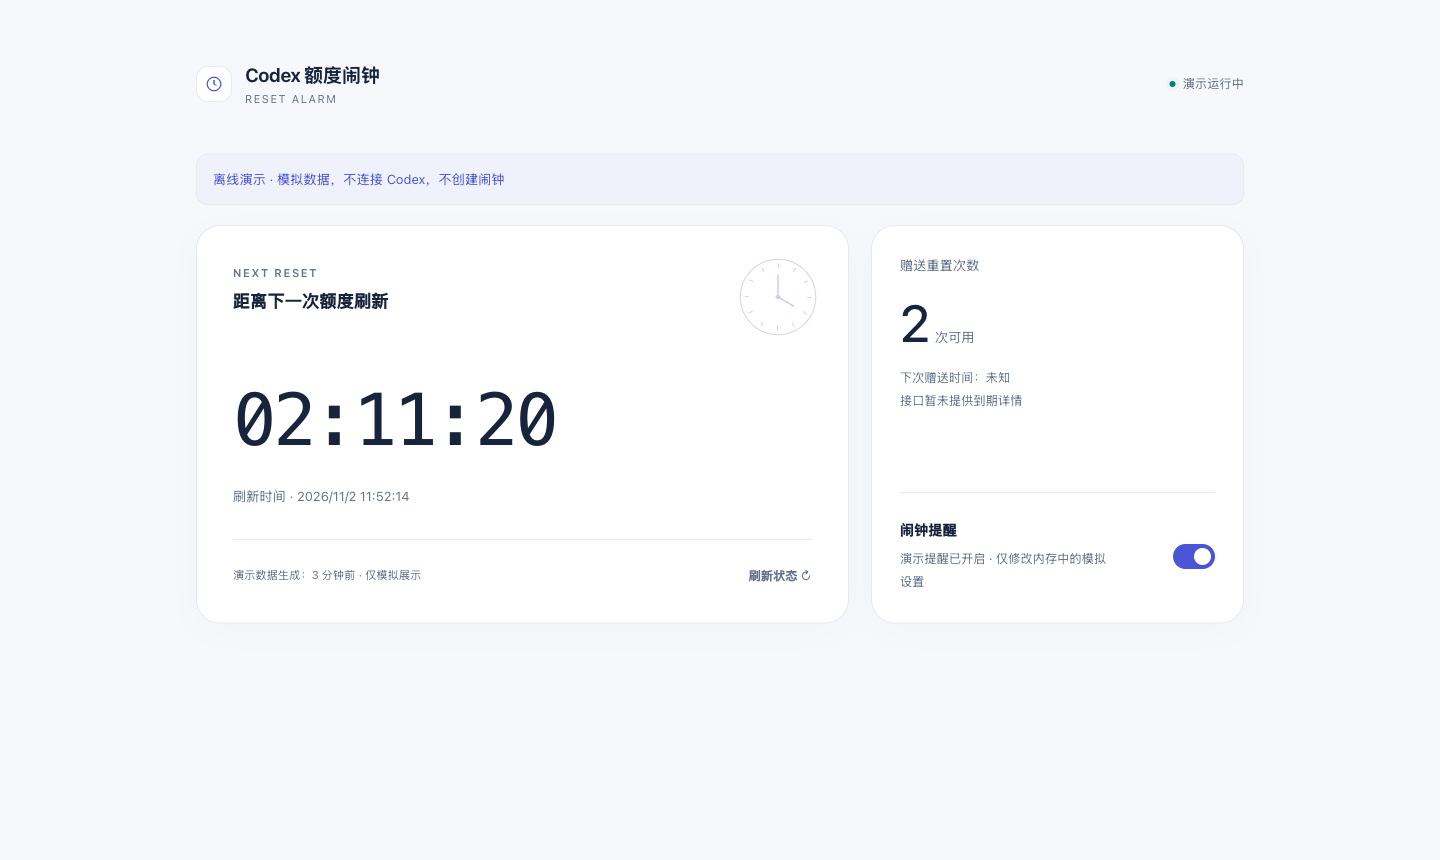
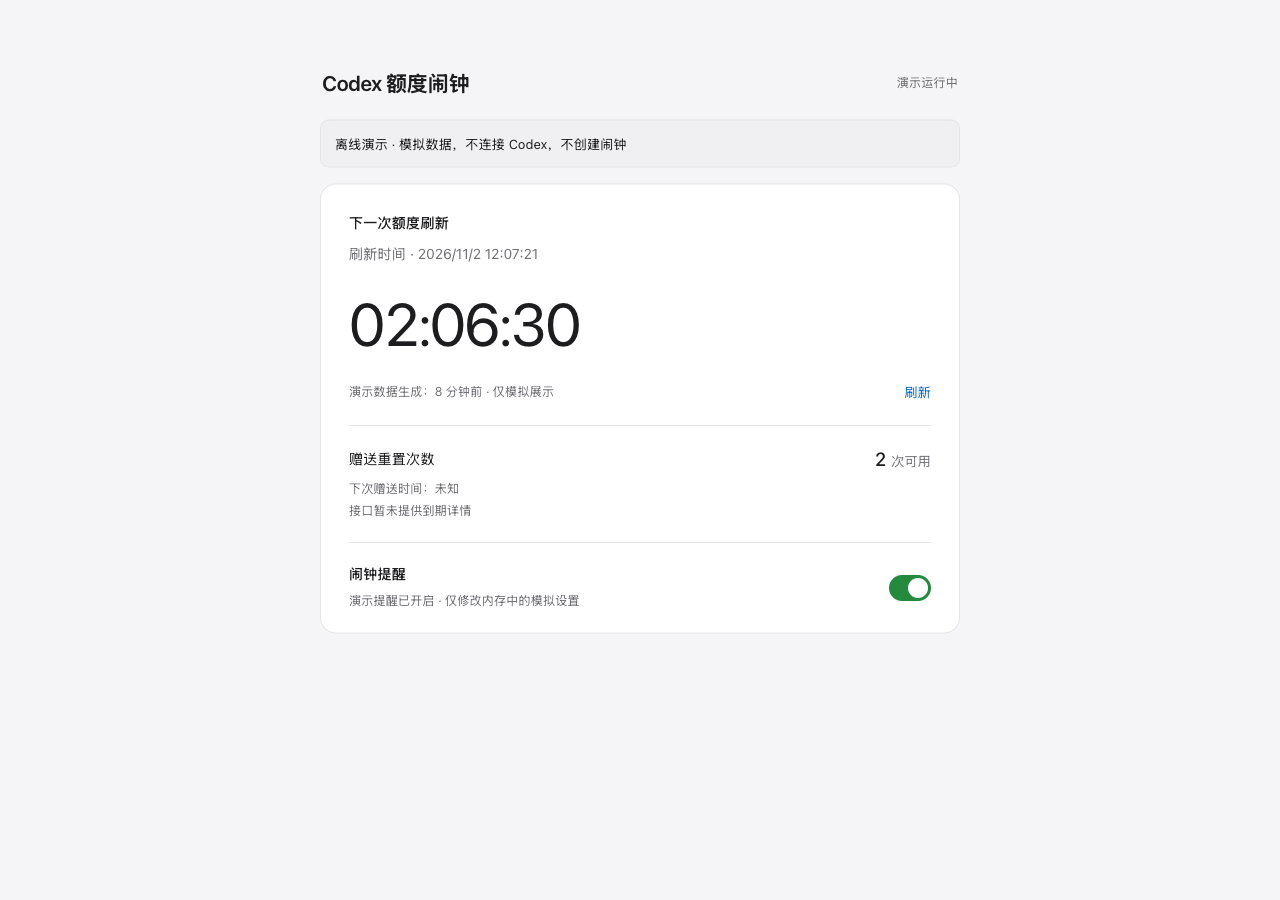
design: adopt a native utility layout guided by Impeccable

diff --git a/web/index.html b/web/index.html
@@ -6,107 +6,92 @@
 <title>Codex 额度闹钟</title>
 <link rel="icon" href="data:,">
 <style>
-  :root { color-scheme:light dark; --bg:#f6f8fb; --surface:#fff; --ink:#17243b; --muted:#65748a; --line:#e5eaf1; --accent:#4b56d6; --green:#087f72; --soft:#f0f2fb; --shadow:0 8px 32px #263b5b06; }
+  :root { color-scheme:light dark; --bg:#f5f5f7; --surface:#fff; --ink:#1d1d1f; --muted:#6e6e73; --line:#e5e5e7; --blue:#0066cc; --green:#248a3d; --control:#f0f0f2; --error:#b42318; --error-bg:#fff0ee; }
   * { box-sizing:border-box; }
-  body { margin:0; background:var(--bg); color:var(--ink); font-family:-apple-system,BlinkMacSystemFont,"PingFang SC",sans-serif; -webkit-font-smoothing:antialiased; }
-  main { max-width:1120px; margin:0 auto; padding:62px 36px 40px; }
-  header { display:flex; align-items:center; justify-content:space-between; gap:20px; margin-bottom:48px; }
-  .identity { display:flex; align-items:center; gap:13px; }
-  .brand-mark { width:36px; height:36px; border:1px solid var(--line); border-radius:12px; background:var(--surface); display:grid; place-items:center; color:var(--accent); }
-  h1 { font-size:19px; font-weight:650; letter-spacing:-.4px; margin:0; }
-  .brand-sub { color:var(--muted); font-size:11px; letter-spacing:1.5px; margin-top:4px; }
-  .header-actions { display:flex; align-items:center; gap:16px; }
-  .status { display:flex; align-items:center; gap:7px; color:var(--muted); font-size:12px; }
-  .status::before { content:""; width:6px; height:6px; border-radius:50%; background:#9ba8ba; }
-  .status.online::before { background:var(--green); box-shadow:0 0 0 4px #0a99800c; }
-  .layout { display:grid; grid-template-columns:minmax(0,1.75fr) minmax(270px,1fr); gap:22px; align-items:stretch; }
-  .clock,.side { min-width:0; background:var(--surface); border:1px solid var(--line); border-radius:24px; box-shadow:var(--shadow); }
-  .clock { position:relative; padding:40px 36px 32px; overflow:hidden; display:flex; flex-direction:column; }
-  .eyebrow { color:var(--muted); font-size:11px; letter-spacing:1.6px; font-weight:600; }
-  .label { font-size:17px; font-weight:550; margin-top:10px; }
-  .clock-art { position:absolute; right:24px; top:25px; width:92px; height:92px; color:var(--accent); opacity:.28; }
-  .count { font-family:ui-monospace,"SFMono-Regular",Menlo,monospace; font-size:clamp(40px,5.8vw,72px); line-height:1.2; font-weight:400; letter-spacing:-3px; font-variant-numeric:tabular-nums; margin:64px 0 22px; }
-  #reset { font-size:13px; color:var(--muted); line-height:1.6; }
-  .clock-footer { border-top:1px solid var(--line); margin-top:33px; padding-top:20px; display:flex; flex-wrap:wrap; gap:10px; justify-content:space-between; align-items:center; }
-  #freshness { margin:0; color:var(--muted); font-size:11px; line-height:1.8; }
-  .paused-note { display:none; color:var(--muted); font-size:12px; margin-top:12px; }
-  .clock.paused .paused-note { display:block; }
-  .clock.paused .count { color:var(--muted); }
-  .side { padding:30px 28px; display:flex; flex-direction:column; }
-  .section-label { color:var(--muted); font-size:13px; }
-  .credit { margin:22px 0 18px; font-size:52px; letter-spacing:-2px; font-weight:450; line-height:1; }
-  .credit small { font-size:13px; letter-spacing:0; font-weight:400; color:var(--muted); margin-left:7px; }
-  .muted { color:var(--muted); font-size:12px; line-height:1.9; }
-  .credit-meta { margin-bottom:30px; }
-  .switchline { border-top:1px solid var(--line); padding-top:27px; margin-top:auto; display:flex; justify-content:space-between; align-items:center; gap:18px; }
-  #toggleLabel { font-size:14px; font-weight:550; }
-  #toggleHint { margin-top:7px; max-width:210px; }
-  button { font-family:inherit; border:1px solid transparent; border-radius:10px; padding:10px 14px; background:var(--accent); color:#fff; font-size:12px; font-weight:550; cursor:pointer; max-width:100%; }
-  button.secondary { background:var(--soft); color:var(--ink); }
-  button.text-button { background:transparent; color:var(--muted); padding:6px 0; }
+  body { margin:0; background:var(--bg); color:var(--ink); font-family:-apple-system,BlinkMacSystemFont,"Helvetica Neue","PingFang SC",sans-serif; -webkit-font-smoothing:antialiased; }
+  main { max-width:688px; margin:68px auto 40px; padding:0 24px; }
+  header { display:flex; justify-content:space-between; align-items:center; gap:16px; margin:0 2px 22px; }
+  h1 { margin:0; font-size:21px; font-weight:600; letter-spacing:-.02em; }
+  .status { font-size:12px; color:var(--muted); line-height:1.6; text-align:right; }
+  .panel { background:var(--surface); border:1px solid var(--line); border-radius:16px; padding:0 28px; }
+  .clock { padding:28px 0 20px; }
+  .label { font-size:14px; font-weight:500; }
+  #reset { font-size:14px; margin-top:9px; color:var(--muted); line-height:1.7; }
+  .count { font-size:60px; font-weight:400; font-variant-numeric:tabular-nums; letter-spacing:-.03em; line-height:1.15; margin:23px 0 21px; }
+  .clock-footer { display:flex; align-items:center; justify-content:space-between; gap:12px; }
+  #freshness { margin:0; font-size:12px; line-height:1.6; color:var(--muted); }
+  .settings-row { border-top:1px solid var(--line); padding:21px 0; }
+  .row-title { display:flex; align-items:center; justify-content:space-between; gap:18px; font-size:14px; }
+  .credit { font-size:19px; font-weight:500; font-variant-numeric:tabular-nums; }
+  .credit small { font-size:13px; font-weight:400; margin-left:5px; color:var(--muted); }
+  .muted { font-size:12px; color:var(--muted); line-height:1.8; }
+  .credit-meta { margin-top:8px; }
+  #toggleHint { margin-top:6px; }
+  .switchline { display:flex; align-items:center; justify-content:space-between; gap:24px; }
+  #toggleLabel { font-size:14px; font-weight:500; }
+  .switch { position:relative; border:0; width:44px; height:44px; padding:0; border-radius:8px; background:transparent; flex-shrink:0; }
+  .switch::after { content:""; position:absolute; left:2px; top:9px; width:42px; height:26px; border-radius:20px; background:#b2b2b7; }
+  .switch::before { content:""; position:absolute; z-index:1; left:5px; top:12px; width:20px; height:20px; background:#fff; border-radius:50%; transition:transform 180ms ease-out; }
+  .switch[aria-checked="true"]::after { background:var(--green); }
+  .switch[aria-checked="true"]::before { transform:translateX(16px); }
+  button { font-family:inherit; font-size:13px; font-weight:400; cursor:pointer; border:0; border-radius:7px; padding:8px 11px; color:var(--blue); background:var(--control); max-width:100%; }
+  button.text-button { padding:4px 0; background:transparent; }
+  button:hover:not(:disabled) { filter:brightness(.95); }
+  button:active:not(:disabled) { filter:brightness(.88); }
   button:disabled { opacity:.45; cursor:default; }
-  button:focus-visible,a:focus-visible,input:focus-visible { outline:3px solid var(--accent); outline-offset:4px; }
-  .switch { padding:4px; border:0; width:42px; height:25px; background:#a5b0bf; border-radius:20px; flex-shrink:0; }
-  .switch::before { content:""; display:block; width:17px; height:17px; background:#fff; border-radius:50%; transition:transform .15s; box-shadow:0 1px 3px #0002; }
-  .switch[aria-checked="true"] { background:var(--accent); }
-  .switch[aria-checked="true"]::before { transform:translateX(17px); }
-  .controls { margin-top:22px; display:flex; justify-content:space-between; gap:20px; align-items:center; }
-  .buttons { display:flex; gap:10px; flex-wrap:wrap; }
-  #soundHint { margin:0; max-width:430px; font-size:11px; }
-  #feedback { min-height:24px; color:var(--green); font-size:12px; line-height:1.8; margin:16px 0 0; }
-  #demoNotice,#error { margin-bottom:20px; padding:13px 16px; border:1px solid var(--line); border-radius:12px; font-size:13px; line-height:1.8; }
-  #demoNotice { color:var(--accent); background:var(--soft); }
-  #error { display:none; color:#a0442e; background:#fff1ed; }
-  dialog { width:min(620px,calc(100% - 32px)); padding:28px; border:1px solid var(--line); border-radius:20px; background:var(--surface); color:var(--ink); box-shadow:0 24px 100px #10203930; }
-  dialog::backdrop { background:#13203955; backdrop-filter:blur(4px); }
-  .dialog-header { display:flex; justify-content:space-between; align-items:center; gap:15px; margin-bottom:15px; }
-  .dialog-header h2 { font-size:18px; margin:0; }
+  button:focus-visible,a:focus-visible,input:focus-visible { outline:3px solid var(--blue); outline-offset:4px; }
+  input { caret-color:var(--blue); }
+  ::selection { background:#007aff30; }
+  .controls { display:flex; justify-content:space-between; align-items:center; gap:20px; padding:16px 2px 0; }
+  #soundHint { margin:12px 2px 0; font-size:11px; }
+  #feedback { min-height:22px; margin:12px 2px 0; color:var(--muted); font-size:12px; line-height:1.8; }
+  #demoNotice,#error { font-size:13px; line-height:1.7; border-radius:9px; padding:12px 14px; margin-bottom:16px; }
+  #demoNotice { background:var(--control); color:var(--ink); border:1px solid var(--line); }
+  #error { display:none; color:var(--error); background:var(--error-bg); }
+  dialog { width:min(570px,calc(100% - 32px)); padding:24px; background:var(--surface); color:var(--ink); border:1px solid var(--line); border-radius:16px; }
+  dialog::backdrop { background:#0005; }
+  .dialog-header { display:flex; justify-content:space-between; align-items:center; gap:20px; margin-bottom:16px; }
+  .dialog-header h2 { margin:0; font-size:18px; font-weight:600; }
   .connection-field { margin-top:16px; }
-  .connection-field label { display:block; font-size:12px; color:var(--muted); margin-bottom:7px; }
+  .connection-field label { display:block; margin-bottom:7px; font-size:12px; color:var(--muted); }
   .connection-value { display:flex; gap:8px; }
-  .connection-value input { width:100%; min-width:0; border:1px solid var(--line); border-radius:9px; padding:10px; background:var(--bg); color:var(--ink); font-size:12px; }
+  .connection-value input { min-width:0; width:100%; font-size:12px; padding:9px; background:var(--bg); color:var(--ink); border:1px solid var(--line); border-radius:7px; }
   .connection-value button { flex-shrink:0; }
   p,#reset,#feedback,#error,.status,.connection-field label { overflow-wrap:anywhere; }
   [hidden] { display:none!important; }
-  @media(prefers-color-scheme:dark) { :root { --bg:#101722; --surface:#182230; --ink:#e6edf7; --muted:#a5b3c7; --line:#2b384b; --accent:#a3aaff; --green:#6ad3be; --soft:#263249; --shadow:0 10px 35px #00000012; } button:not(.secondary):not(.text-button):not(.switch) { color:#17213a; } #error { background:#3d2a28; color:#ffbda8; } .switch[aria-checked="true"] { background:#727edc; } }
-  @media(max-width:760px) { main { padding:30px 22px; } header { margin-bottom:28px; } .layout { grid-template-columns:1fr; } .clock { padding:30px; } .count { margin-top:55px; font-size:64px; } .side { padding:27px; } .credit { font-size:44px; } .credit-meta { margin-bottom:22px; } .controls { align-items:flex-start; flex-direction:column; gap:14px; } .header-actions { gap:12px; } }
-  @media(max-width:400px) { main { padding:24px 16px; } header { gap:12px; flex-wrap:wrap; } .clock { padding:25px 22px; } .clock-art { width:74px; height:74px; right:19px; } .count { font-size:47px; letter-spacing:-2px; margin-top:55px; } .label { font-size:15px; } .connection-value { flex-wrap:wrap; } .connection-value input { flex-basis:100%; } }
+  @media(prefers-color-scheme:dark) { :root { --bg:#141414; --surface:#1c1c1e; --ink:#f5f5f7; --muted:#adadb3; --line:#38383b; --blue:#64b5ff; --green:#30a14e; --control:#2c2c2e; --error:#ffb4ab; --error-bg:#3a2424; } button:hover:not(:disabled) { filter:brightness(1.12); } }
+  @media(max-width:600px) { body { background:var(--surface); } main { margin:32px auto 24px; padding:0 22px; } header { margin-bottom:14px; } .panel { padding:0; border:0; border-radius:0; } .clock { padding-top:24px; } .count { font-size:56px; } }
+  @media(max-width:360px) { main { padding:0 18px; } h1 { font-size:19px; } header { gap:10px; } .count { font-size:48px; } .connection-value { flex-wrap:wrap; } .connection-value input { flex-basis:100%; } }
   @media(prefers-reduced-motion:reduce) { *,*::before,*::after { transition:none!important; animation:none!important; } }
 </style>
 </head>
 <body>
 <main>
-<header>
-  <div class="identity">
-    <span class="brand-mark" aria-hidden="true"><svg width="19" height="19" viewBox="0 0 24 24" fill="none" stroke="currentColor" stroke-width="1.6"><circle cx="12" cy="12" r="8.5"/><path d="M12 7v5l3 2"/></svg></span>
-    <div><h1>Codex 额度闹钟</h1><div class="brand-sub">RESET ALARM</div></div>
-  </div>
-  <div class="header-actions"><span class="status" id="status">正在连接</span><span id="connectionTools" hidden><button class="text-button" id="connection">连接设置</button></span></div>
-</header>
+<header><h1>Codex 额度闹钟</h1><span class="status" id="status">正在连接</span></header>
 <div id="demoNotice" role="note" hidden>离线演示 · 模拟数据，不连接 Codex，不创建闹钟</div>
 <div id="error" role="alert"></div>
-<div class="layout">
+<div class="panel">
   <section class="clock">
-    <svg class="clock-art" viewBox="0 0 100 100" fill="none" aria-hidden="true"><circle cx="50" cy="50" r="41" stroke="currentColor" stroke-width="1"/><circle cx="50" cy="50" r="34" stroke="currentColor" stroke-width="5" stroke-dasharray="1 16.8"/><path d="M50 26v24l17 10" stroke="currentColor" stroke-width="1.8" stroke-linecap="round"/><circle cx="50" cy="50" r="2.5" fill="currentColor"/></svg>
-    <div class="eyebrow">NEXT RESET</div>
-    <div class="label">距离下一次额度刷新</div>
-    <div class="count" id="count">--:--:--</div>
+    <div class="label">下一次额度刷新</div>
     <div id="reset">等待读取刷新时间</div>
-    <div class="paused-note">提醒已暂停 · 倒计时继续更新</div>
-    <div class="clock-footer"><p id="freshness">最近读取：尚未获取数据</p><button class="text-button" id="refresh">刷新状态 ↻</button></div>
+    <div class="count" id="count">--:--:--</div>
+    <div class="clock-footer"><p id="freshness">最近读取：尚未获取数据</p><button class="text-button" id="refresh">刷新</button></div>
   </section>
-  <section class="side">
-    <div class="section-label">赠送重置次数</div>
-    <div class="credit"><span id="credits">—</span><small>次可用</small></div>
+  <section class="settings-row">
+    <div class="row-title"><span>赠送重置次数</span><span class="credit"><span id="credits">—</span><small>次可用</small></span></div>
     <div class="credit-meta"><div class="muted">下次赠送时间：未知</div><div class="muted" id="expiry">暂无到期详情</div></div>
-    <div class="switchline"><div><div id="toggleLabel">闹钟提醒</div><div class="muted" id="toggleHint">正在读取提醒设置</div></div><button class="switch" id="notifications" role="switch" aria-labelledby="toggleLabel" aria-checked="true" disabled></button></div>
+  </section>
+  <section class="settings-row switchline">
+    <div><div id="toggleLabel">闹钟提醒</div><div class="muted" id="toggleHint">正在读取提醒设置</div></div>
+    <button class="switch" id="notifications" role="switch" aria-labelledby="toggleLabel" aria-checked="true" disabled></button>
   </section>
 </div>
-<div class="controls"><div class="buttons"><button class="secondary" id="test" disabled>试听电脑闹铃</button></div><p id="soundHint" class="muted">到时持续响铃，点击弹窗停止，最多 5 分钟。休眠后唤醒补提醒。</p></div>
+<div class="controls"><button class="text-button" id="test" disabled>试听电脑闹铃</button><span id="connectionTools" hidden><button class="text-button" id="connection">连接设置</button></span></div>
+<p id="soundHint" class="muted">响铃最多 5 分钟，可在弹窗中停止。休眠后唤醒补提醒。</p>
 <div id="feedback" role="status" aria-live="polite"></div>
 </main>
 <dialog id="connectionDialog" aria-labelledby="connectionTitle">
-  <div class="dialog-header"><h2 id="connectionTitle">连接设置</h2><button class="text-button" id="closeConnection" aria-label="关闭连接设置">关闭 ✕</button></div>
+  <div class="dialog-header"><h2 id="connectionTitle">连接设置</h2><button class="text-button" id="closeConnection">关闭</button></div>
   <div id="connectionFeedback" class="muted" role="status" aria-live="polite"></div>
   <div id="connectionValues"></div>
   <p class="muted">专属地址可查看额度并修改提醒开关，请仅在可信 Wi-Fi 使用，勿分享。</p>
@@ -165,7 +150,6 @@
       const credits = data.credits || {};
       token = data.csrf_token || '';
       const enabled = data.notifications_enabled !== false;
-      document.querySelector('.clock').classList.toggle('paused', !enabled);
       $('notifications').setAttribute('aria-checked', String(enabled));
       $('notifications').disabled = saving || !token;
       $('demoNotice').hidden = !data.demo_mode;

diff --git a/docs/design.md b/docs/design.md
@@ -1,0 +1,26 @@
+# 界面设计约定
+
+本项目是每天查看与操作的工具，不是营销落地页。用户明确偏好 Apple 原生产品的安静、紧凑与熟悉感。
+
+## 信息顺序
+
+1. 下一次刷新时间与剩余等待时间。
+2. 当前赠送重置次数与可验证的到期信息。
+3. 提醒开关，以及当前操作的结果。
+
+连接地址与试听是辅助操作。主页不重复已经完成的手机设置教程，不声称知道手机是否已创建闹钟。
+
+## 视觉规则
+
+- 使用系统无衬线字体，时间启用 tabular-nums；不用额外展示字体或装饰性等宽字体。
+- 单列、共同表面、分隔线组织信息；不把每个事实装进独立大卡片。
+- 浅色以系统灰、白、深色文字为主，暗色跟随系统；蓝色用于动作，绿色用于开启状态。
+- 不增加重复英文眉题、装饰时钟、渐变、发光、虚构图表或没有功能的动效。
+- 按钮、开关、焦点与禁用状态使用一致的原生控件语言。手机触控目标保持可点选。
+- 关闭提醒不等于额度失效，因此不把仍在更新的倒计时灰掉。
+
+## 验证
+
+每次改动检查桌面与手机、浅色与暗色、加载失败、提醒开关和连接面板。演示必须显示模拟数据标记，不能影响真实提醒。
+
+方法参考：[Impeccable](https://github.com/pbakaus/impeccable) 的 Operate 界面准则；本项目没有运行或分发其安装器与二进制。此约定用于约束本项目后续设计，不代表与 Apple 或 Impeccable 存在隶属关系。

diff --git a/README.md b/README.md
@@ -126,3 +126,5 @@ python3 doctor.py --json
 在电脑控制台点击右上角“连接设置”，即可复制手机网页地址和快捷指令数据地址；主机名解析失败时可使用可用的 IP 回退地址。无需打开终端查看链接。自动复制失败时，页面会选中地址供手动复制。手机和电脑仍需连接同一个可信 Wi-Fi。
 
 这些专属地址包含访问令牌，持有者可以查看额度并修改提醒开关，请勿分享或上传。地址只在用户点击后读取，手机页面隐藏此入口。
+
+界面采用原生工具式布局，字体、层级和交互约定见 [设计约定](docs/design.md)。设计方法参考 [Impeccable](https://github.com/pbakaus/impeccable)。

diff --git a/CHANGELOG.md b/CHANGELOG.md
@@ -2,6 +2,16 @@
 
 版本按最新在前排列。运行支持范围为 macOS；CI 中的 Linux 仅用于离线测试。
 
+## v0.2.0 — 原生工具式界面
+
+2026-11-02
+
+- 参考 Impeccable 的 Operate 设计准则，按用户明确的 Apple 原生风格重做界面。
+- 移除装饰时钟、重复英文眉题、过大的次数展示和双卡片布局。
+- 使用系统字体、tabular 数字、单列表面与设置行，保留原有功能。
+- 手机开关点击范围扩为 44×44px，保持熟悉的轨道外观。
+- 完成桌面浅色、手机暗色、320px 窄屏验证；设计约定见 docs/design.md。
+
 ## v0.1.9 — 精简主页与界面重设计
 
 2026-11-02
